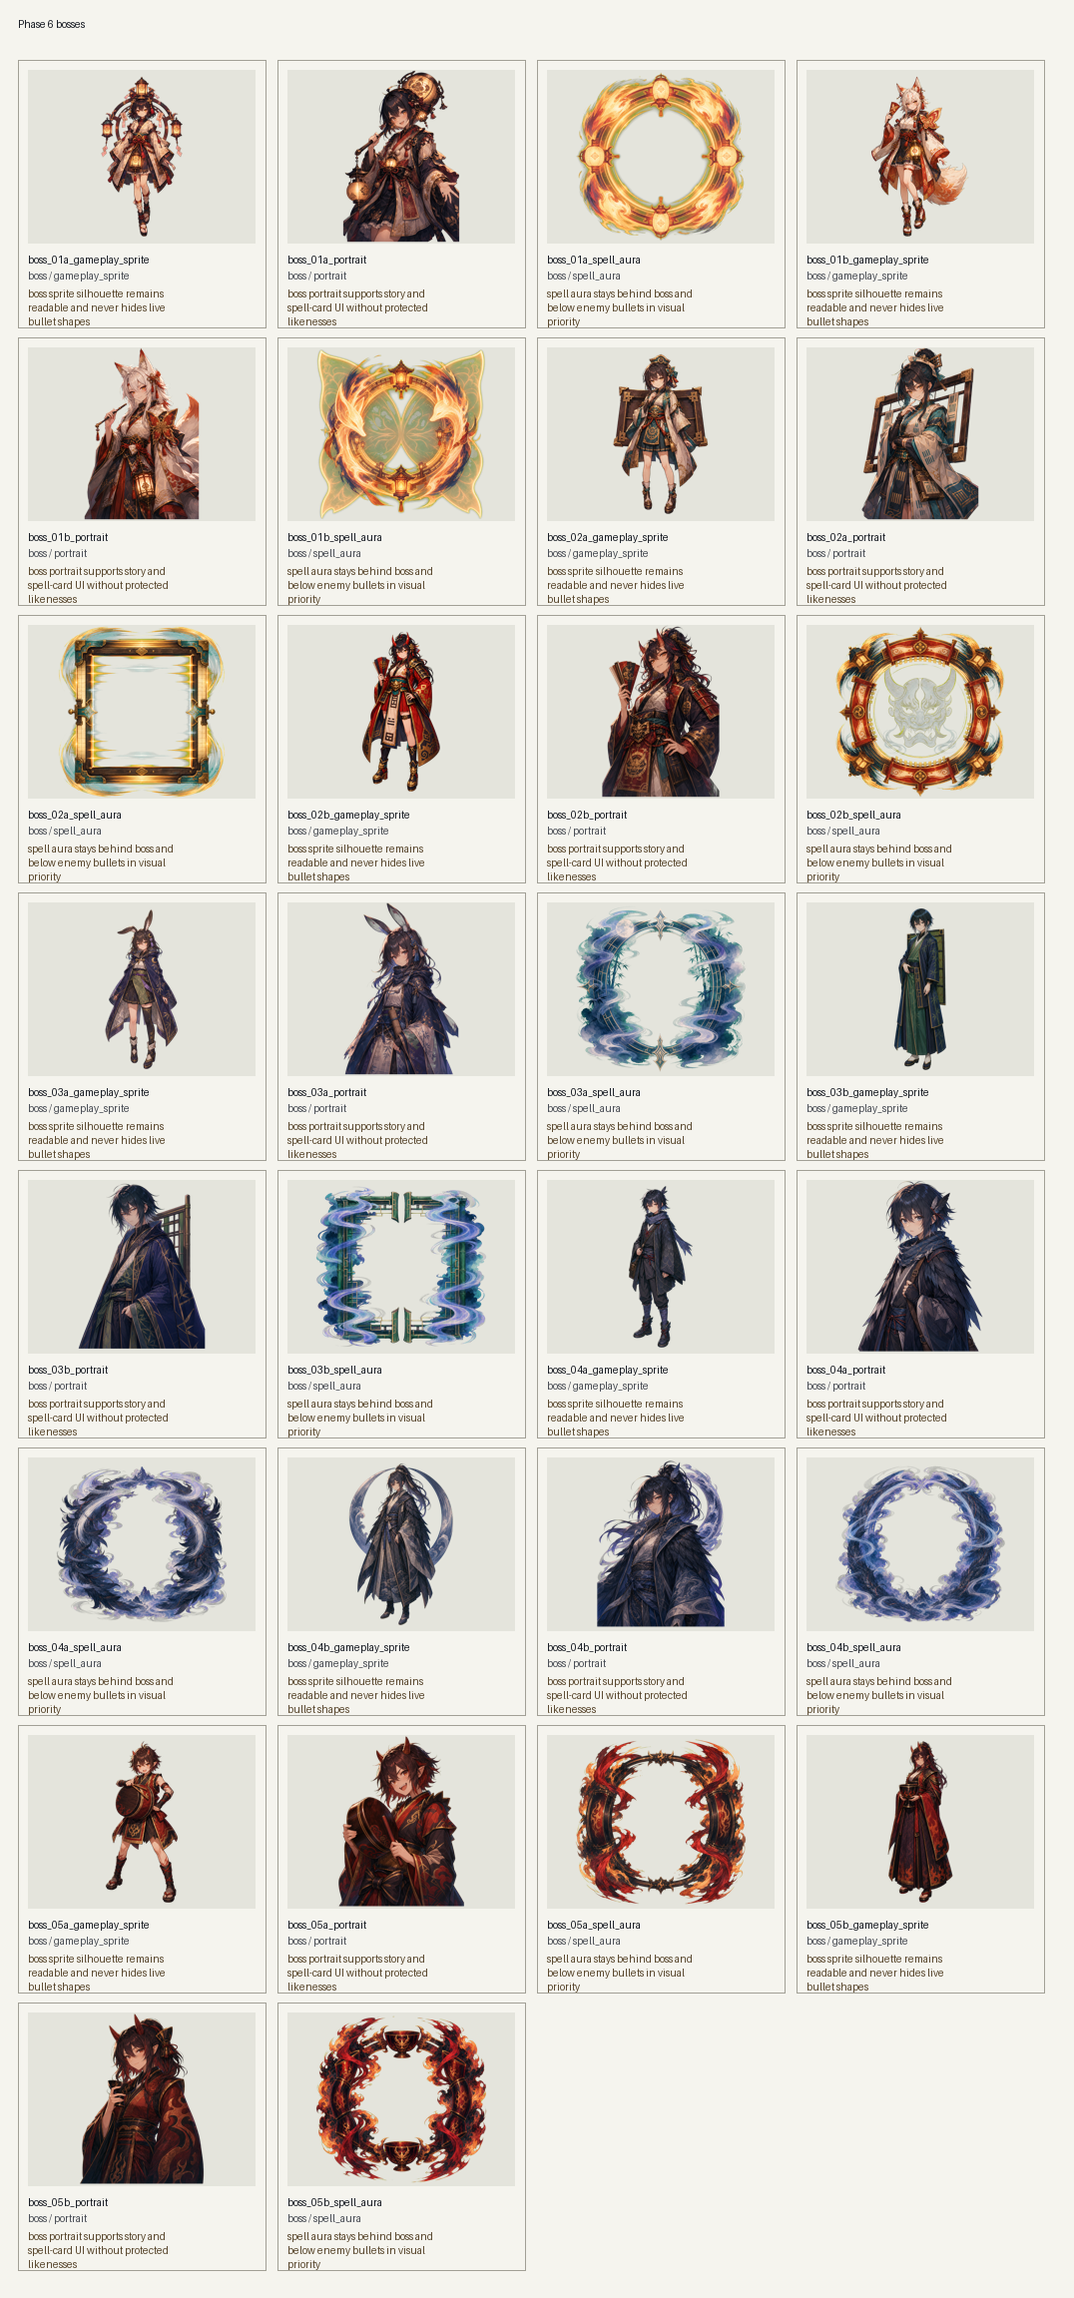
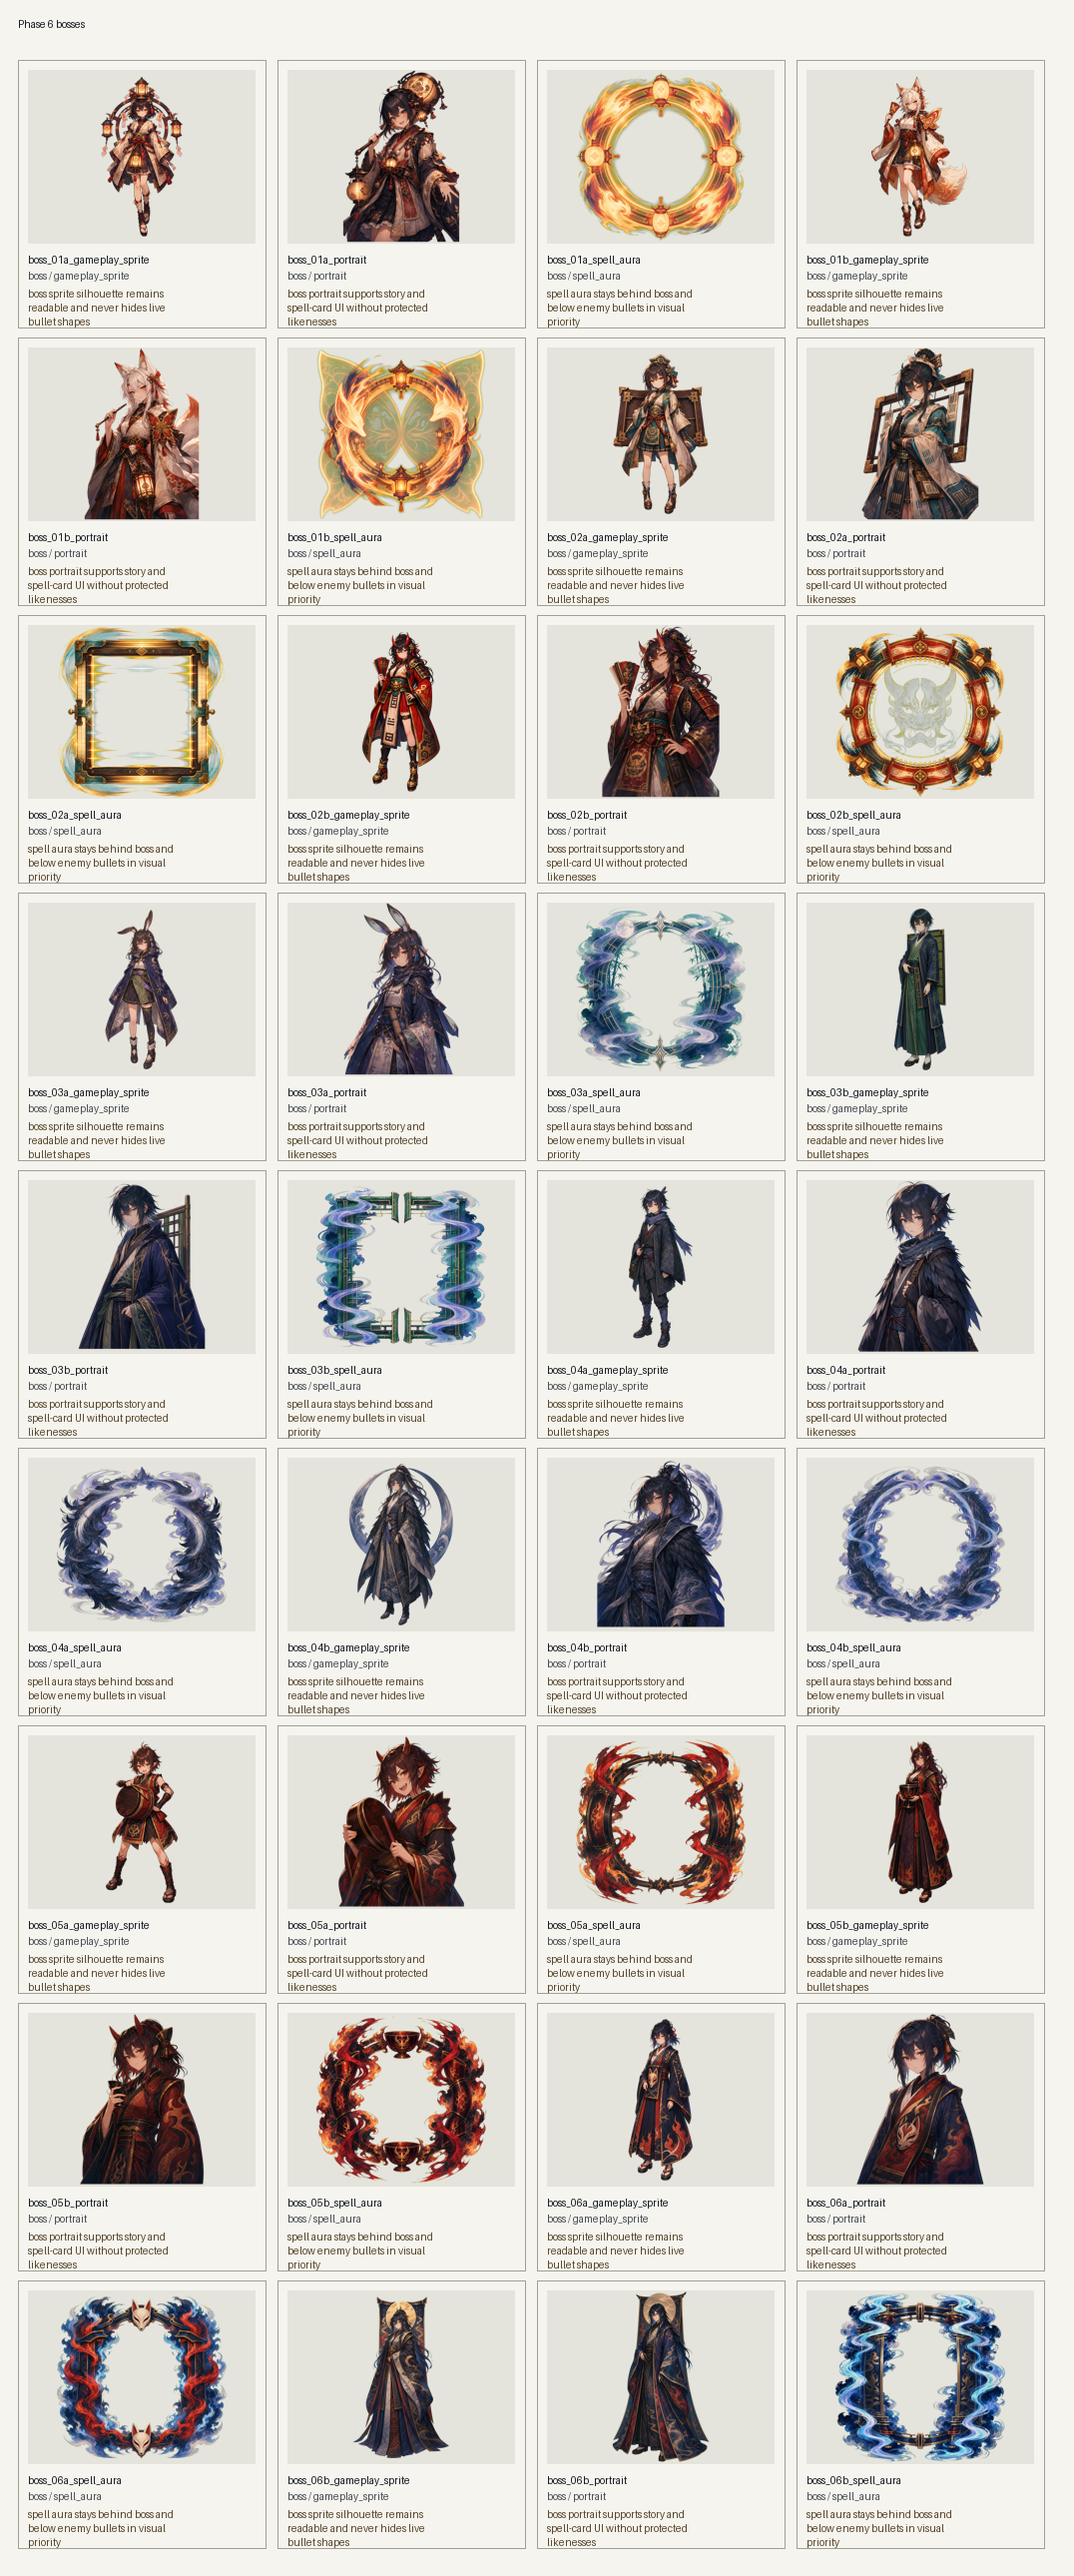
feat: add phase 6 boss art stage 6

diff --git a/docs/art/review/phase6_asset_acceptance.md b/docs/art/review/phase6_asset_acceptance.md
@@ -42,3 +42,9 @@
 | boss_05b_gameplay_sprite | accepted | Narrow banquet-ruler silhouette with cup held close; no detached fire beads, coin-like shine, flower ornament, or wide sleeve clutter. | Matches Stage 5 oni banquet princess direction. | Regenerated after rejecting wide cup/sleeve and item-like ornament risks. |
 | boss_05b_portrait | accepted | Portrait-only lacquer and hair ornament detail stays large; no small bullet-like beads or detached flames. | Matches warm red-black banquet authority palette. | UI/story asset; runtime sprite remains cleaner. |
 | boss_05b_spell_aura | accepted | Broad cup-gate and fire-cloth aura leaves open center; cup emblems are large frame elements, not collectibles. | Matches Stage 5 main-boss banquet fire aura. | Used behind boss only and below live bullets. |
+| boss_06a_gameplay_sprite | accepted | Compact fox-symbol festival attendant silhouette; no real fox ears/tail, hand lantern, detached ofuda, small flame beads, or item-like charms. | Matches Stage 6 divine-eve fox symbolism without protected shrine likeness. | Regenerated after rejecting animal ears, lantern, tassels, and flower ornaments. |
+| boss_06a_portrait | accepted | Portrait-only fox-mask sash and hair ornament remain large UI/story details; no floating talismans or bullet-like fire clusters. | Matches final-stage blue-black/vermilion palette. | Does not reuse exact miko costume or protected symbols. |
+| boss_06a_spell_aura | accepted | Broad foxfire gate and large fox-mask anchors leave open center; no bamboo leaves, pendants, diamond marks, or small fire beads. | Matches Stage 6 sacred foxfire aura language. | Used behind boss only and below live bullets. |
+| boss_06b_gameplay_sprite | accepted | Vertical final-boss silhouette uses broad robe, mantle, and halo shapes; no external lanterns, stars, beads, gems, or dangling charms. | Matches Astralis final night-festival god direction. | Regenerated until wide gate and jewelry/item-like details were removed. |
+| boss_06b_portrait | accepted | Portrait-only sacred mantle and halo remain broad; no small divine beads, star field, or collectible-like jewelry. | Matches final-stage blue-black/gold divine palette. | UI/story asset; runtime sprite keeps gameplay detail calmer. |
+| boss_06b_spell_aura | accepted | Broad shrine-engine frame and continuous cyan spirit ribbons leave open center; rectangular anchors avoid diamond/item shapes. | Matches Astralis final spell aura language. | Regenerated to remove lanterns, scale marks, and pointed diamond anchors. |

diff --git a/docs/art/review/phase6_contact_sheets.md b/docs/art/review/phase6_contact_sheets.md
@@ -2,5 +2,5 @@
 
 | Sheet | Accepted assets | Output | Notes |
 | --- | ---: | --- | --- |
-| bosses | 30 | `phase6_contact_sheet_bosses.png` | ready for review |
-| gameplay_readability | 39 | `phase6_contact_sheet_gameplay_readability.png` | ready for review |
+| bosses | 36 | `phase6_contact_sheet_bosses.png` | ready for review |
+| gameplay_readability | 45 | `phase6_contact_sheet_gameplay_readability.png` | ready for review |
